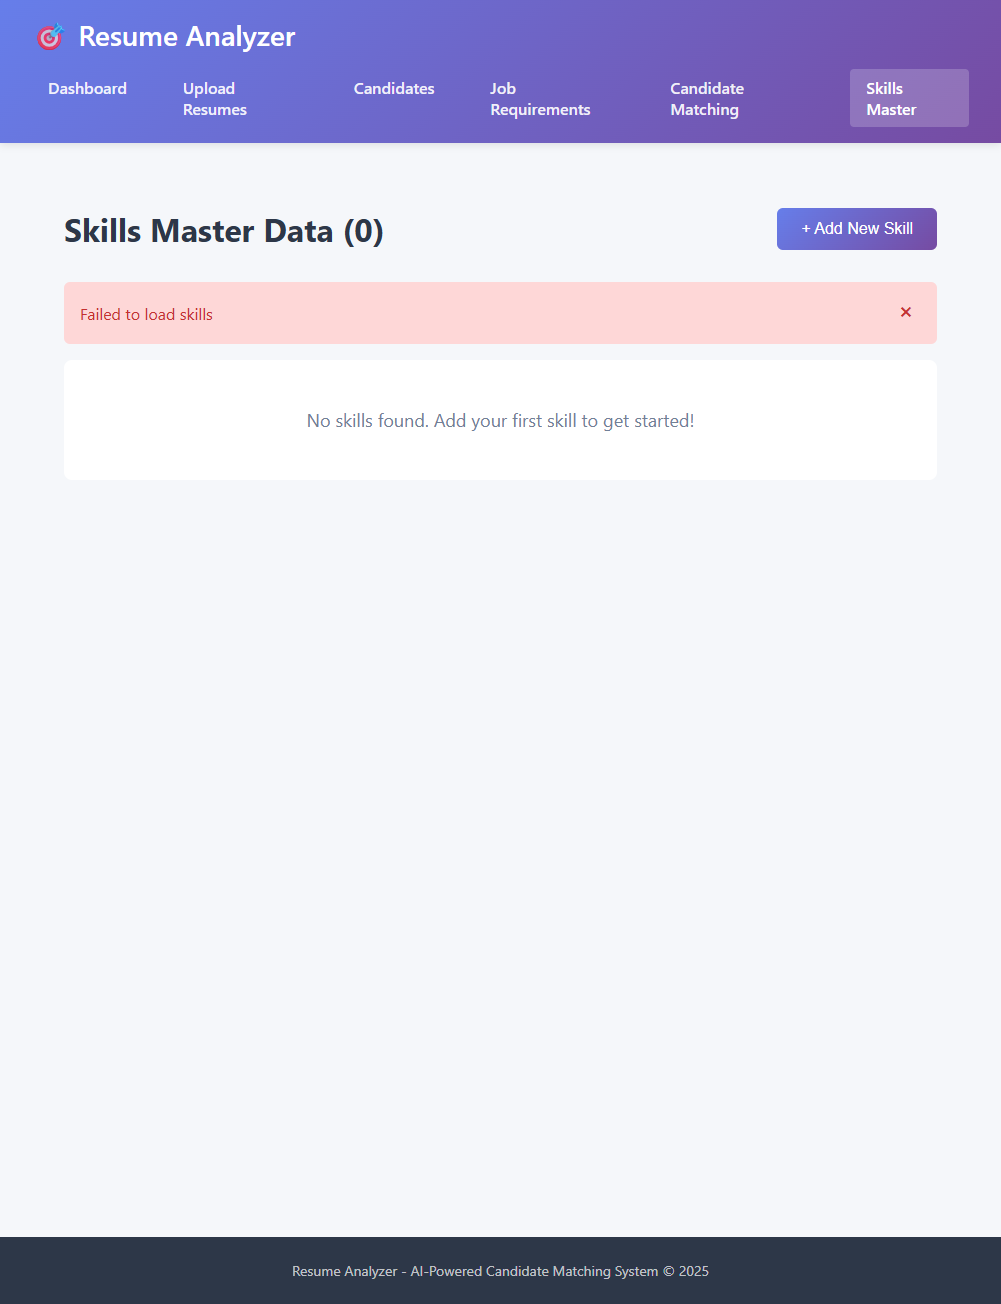
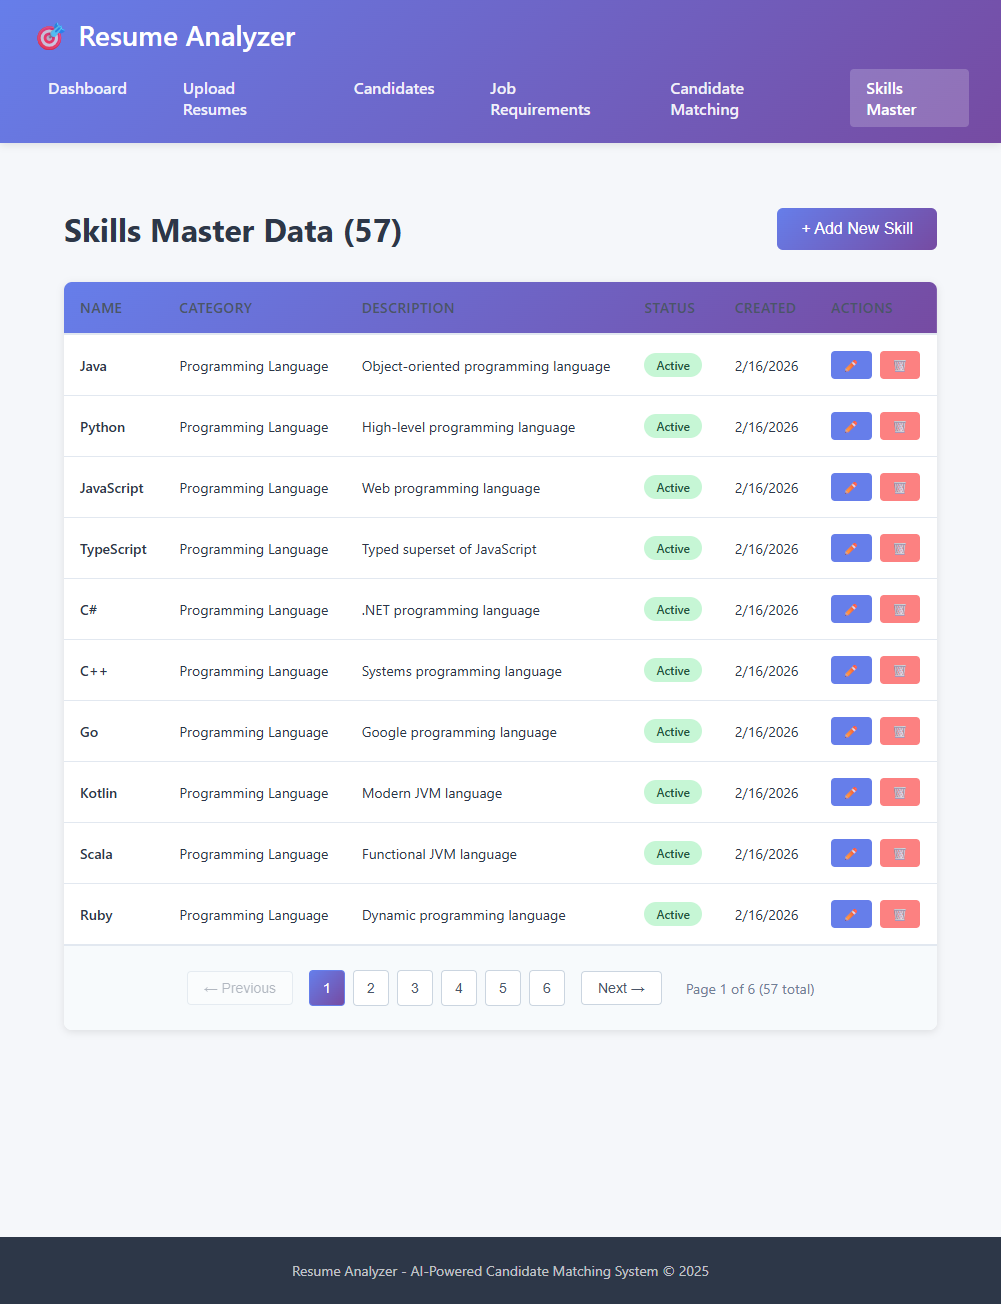
fix: Handle OffsetDateTime serialization in GraphQL LocalDateTime scalar
- Updated GraphQLConfig to support both LocalDateTime and OffsetDateTime
- OffsetDateTime fields (createdAt, updatedAt) from entities now serialize correctly
- Fixed 'Failed to load skills' error in Skills Master page
- Updated skills-master.png screenshot showing working table with 57 skills
- Validated UI using Playwright browser automation - autocomplete working correctly

diff --git a/src/main/java/io/subbu/ai/firedrill/config/GraphQLConfig.java b/src/main/java/io/subbu/ai/firedrill/config/GraphQLConfig.java
@@ -10,6 +10,7 @@ import org.springframework.context.annotation.Configuration;
 import org.springframework.graphql.execution.RuntimeWiringConfigurer;
 
 import java.time.LocalDateTime;
+import java.time.OffsetDateTime;
 import java.time.format.DateTimeFormatter;
 
 /**
@@ -46,8 +47,11 @@ public class GraphQLConfig {
                     public String serialize(Object dataFetcherResult) throws CoercingSerializeException {
                         if (dataFetcherResult instanceof LocalDateTime) {
                             return ((LocalDateTime) dataFetcherResult).format(DateTimeFormatter.ISO_LOCAL_DATE_TIME);
+                        } else if (dataFetcherResult instanceof OffsetDateTime) {
+                            // Convert OffsetDateTime to LocalDateTime for serialization
+                            return ((OffsetDateTime) dataFetcherResult).toLocalDateTime().format(DateTimeFormatter.ISO_LOCAL_DATE_TIME);
                         }
-                        throw new CoercingSerializeException("Expected a LocalDateTime object.");
+                        throw new CoercingSerializeException("Expected a LocalDateTime or OffsetDateTime object.");
                     }
 
                     @Override
